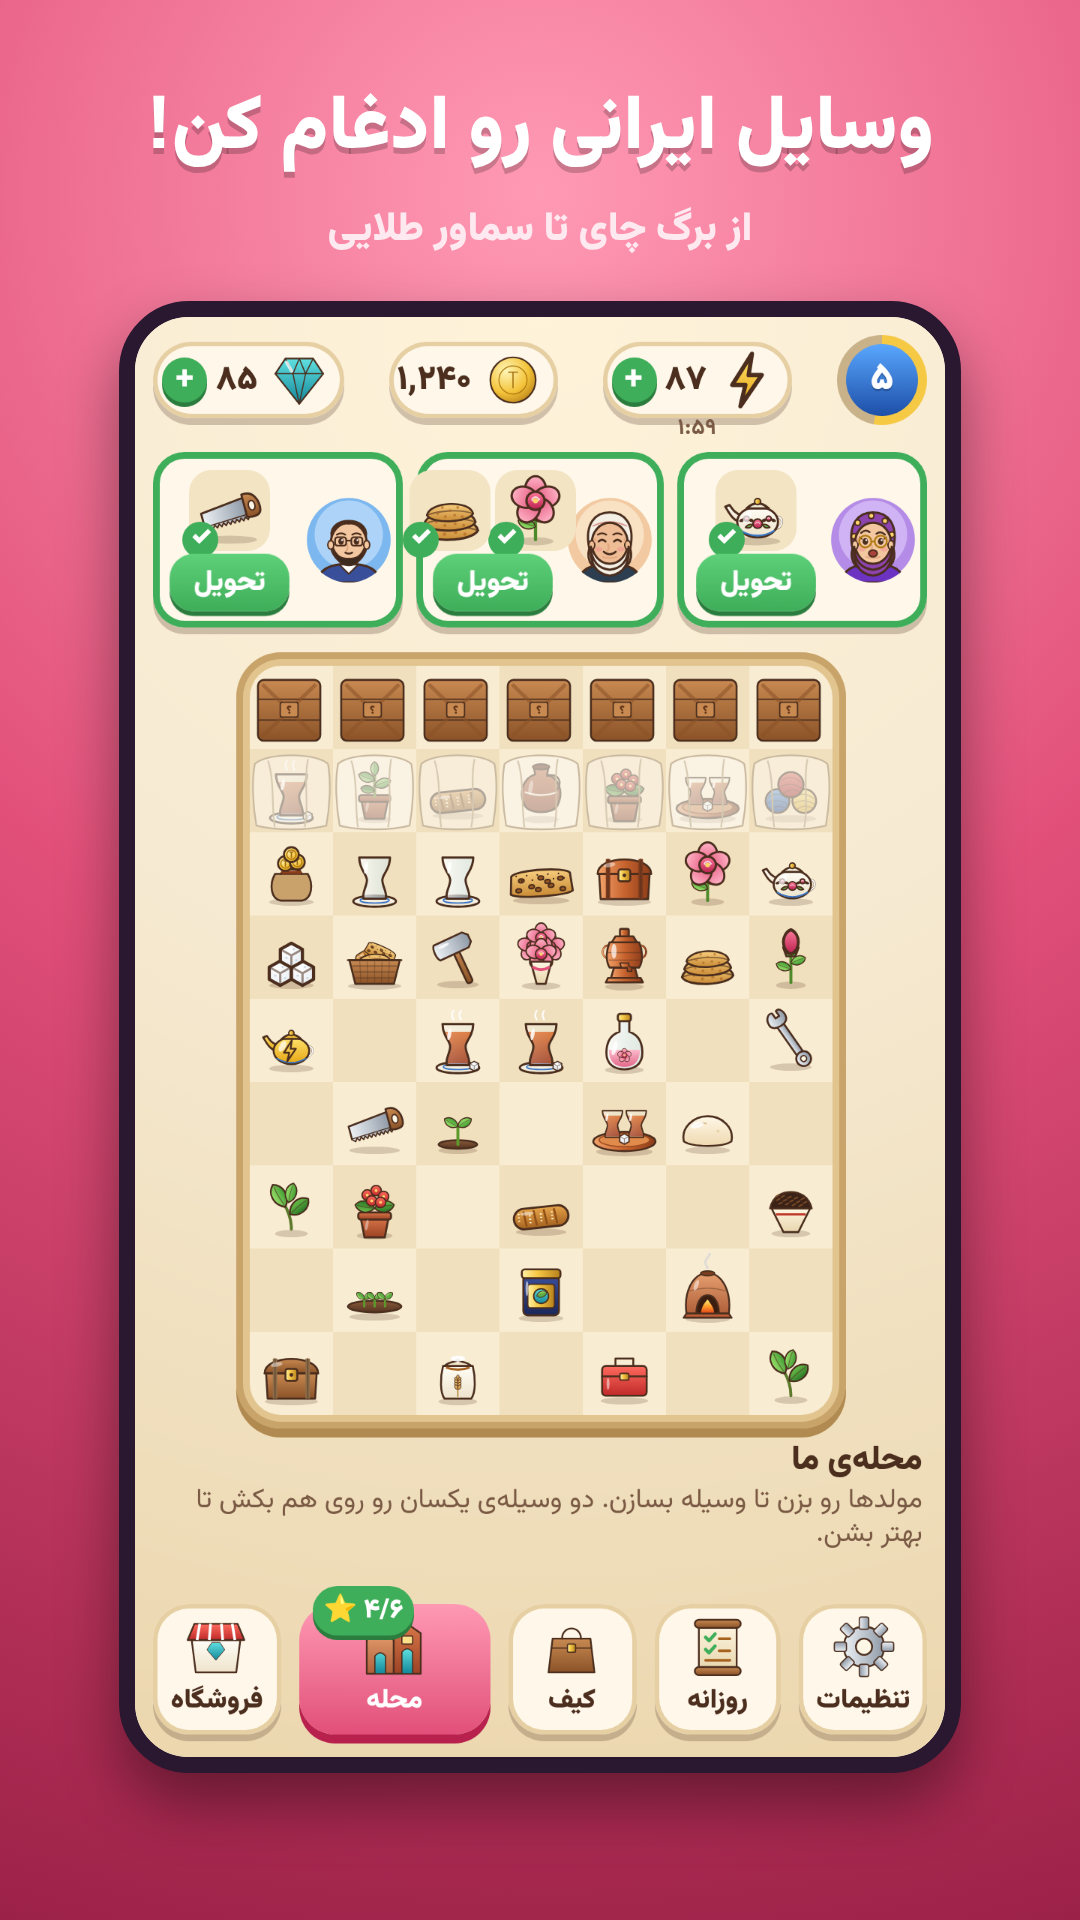
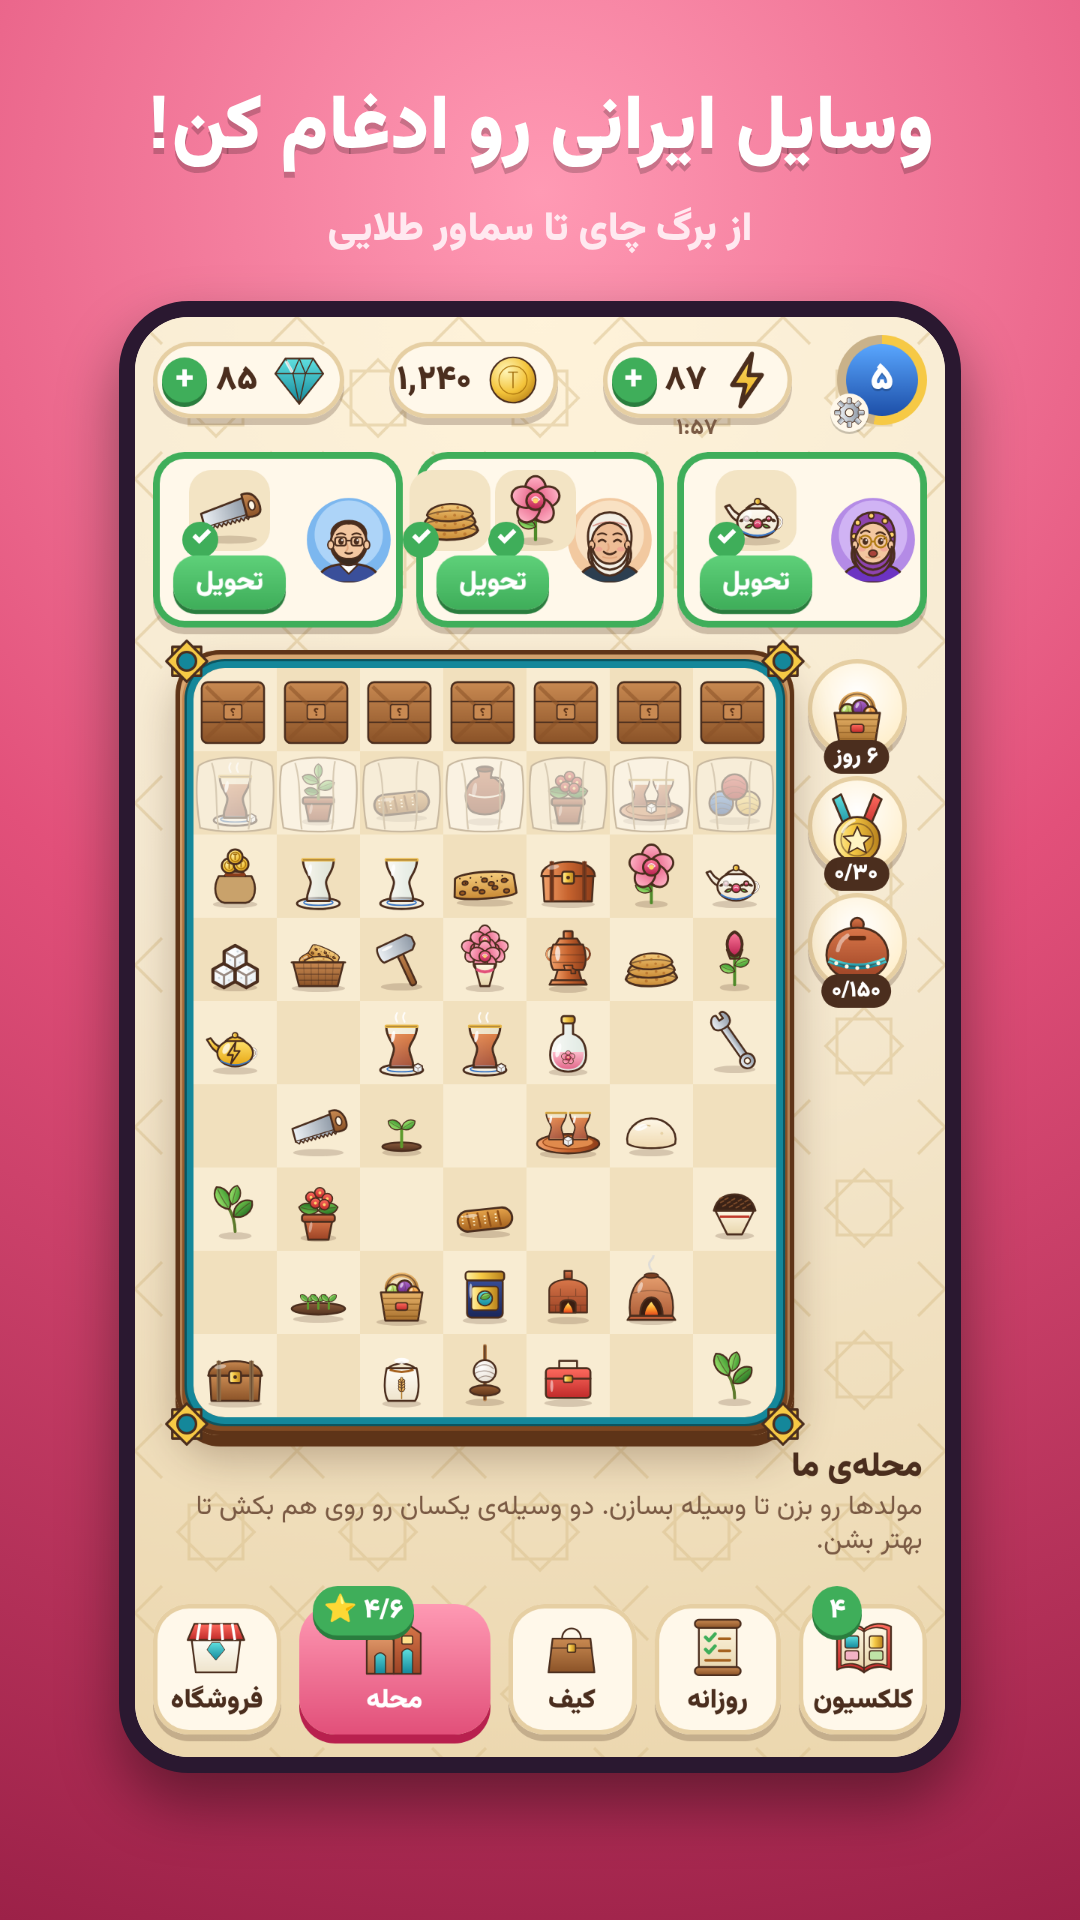
New store screenshots for the AAA features; catch-up toasts wait for the splash
Eight 1080×1920 shots: board, teahouse, story, decoration styles, Yalda event (clock
pinned to 27 Azar), alley race, Season 3 with Uncle Bahman, and the alley map. The
script stages saves with every earned generator and removes its raw captures.

Claude-Session: https://claude.ai/code/session_012idHkvE1RqdQcsBNBZwP5S

diff --git a/scripts/store-shots.ts b/scripts/store-shots.ts
@@ -1,10 +1,10 @@
 // Store screenshots: stages real game states, captures them at phone size and frames each
 // with a caption at 1080×1920. Usage (after `npm run build`): npx tsx scripts/store-shots.ts
 import { createServer } from 'node:http';
-import { existsSync, mkdirSync, readFileSync } from 'node:fs';
+import { existsSync, mkdirSync, readFileSync, rmSync } from 'node:fs';
 import { extname, join, resolve } from 'node:path';
 import { createRequire } from 'node:module';
-import { CELLS, COLS, GameState, fillOrders, newGame } from '../src/game/model';
+import { CELLS, COLS, GameState, ensureGenerators, fillOrders, newGame } from '../src/game/model';
 import { Item } from '../src/game/items';
 import { PLACES } from '../src/story/story';
 const { chromium } = createRequire(import.meta.url)('playwright');
@@ -55,7 +55,9 @@ function midGame(): GameState {
   return s;
 }
 
-interface Shot { name: string; caption: string; sub: string; state: GameState; act?: (page: any) => Promise<void> }
+interface Shot { name: string; caption: string; sub: string; state: GameState; at?: string; act?: (page: any) => Promise<void> }
+const done = (n: number) => PLACES.slice(0, n).flatMap((p) => p.tasks.map((t) => t.id));
+const seenUpTo = (n: number) => [...allSeen, ...PLACES.slice(0, n + 1).map((p) => `${p.id}:intro`), ...PLACES.slice(0, n).map((p) => `${p.id}:outro`), 'ask:rate', 'tut:bubble'];
 const finishedTeahouse = () => {
   const s = midGame();
   s.tasksDone = PLACES[0].tasks.slice(0, 5).map((t) => t.id);
@@ -63,62 +65,99 @@ const finishedTeahouse = () => {
   s.stars = 6;
   return s;
 };
-const weddingState = () => {
+const decorState = () => {
   const s = midGame();
-  const ids = (n: number) => PLACES[n].tasks.map((t) => t.id);
-  s.tasksDone = [0, 1, 2, 3, 4, 5, 6, 7, 8].flatMap(ids).concat(ids(9).slice(0, 4));
-  s.storySeen = [...allSeen, ...PLACES.map((p) => `${p.id}:intro`), ...PLACES.map((p) => `${p.id}:outro`), 'ask:rate'];
-  s.stars = 120;
-  s.level = 11;
+  s.tasksDone = PLACES[0].tasks.slice(0, 3).map((t) => t.id);
+  s.storySeen = [...allSeen, 'event:week'];
+  s.stars = 20;
   return s;
 };
+const raceState = () => {
+  const s = midGame();
+  s.level = 6; s.xp = 150;
+  s.race = { day: today, count: 1, active: { start: Date.now() - 38 * 60e3, orders0: s.stats.orders - 4, finishedAt: null, claimed: false,
+    bots: [{ name: 'مریم از کوچهی یاس', hue: 0, finishMs: 52 * 60e3 }, { name: 'علی از کوچهی بهار', hue: 1, finishMs: 61 * 60e3 }, { name: 'سارا از کوچهی نارنج', hue: 2, finishMs: 95 * 60e3 }, { name: 'حسین از کوچهی اقاقیا', hue: 3, finishMs: 130 * 60e3 }] } };
+  return s;
+};
+const lateState = (placesDone: number, partial: number) => {
+  const s = midGame();
+  s.tasksDone = done(placesDone).concat(PLACES[placesDone]?.tasks.slice(0, partial).map((t) => t.id) ?? []);
+  s.storySeen = seenUpTo(placesDone);
+  s.level = 22; s.xp = 3000; s.stars = 60;
+  return s;
+};
+const skipStory = async (page: any) => {
+  for (let k = 0; k < 12 && await page.$('.dialogue'); k++) { await page.click('.dialogue', { force: true }); await page.waitForTimeout(80); }
+};
+const closeAll = async (page: any) => {
+  for (let k = 0; k < 4 && await page.$('.overlay .close'); k++) { await page.click('.overlay .close', { force: true }); await page.waitForTimeout(150); }
+};
+/** Lets on-load scenes (event intro, daily gift) play out and closes them. */
+const ready = async (page: any) => {
+  await page.waitForTimeout(1300);
+  for (let k = 0; k < 2; k++) { await skipStory(page); await closeAll(page); }
+};
 const shots: Shot[] = [
-  { name: '1-board', caption: 'وسایل ایرانی رو ادغام کن!', sub: 'از برگ چای تا سماور طلایی', state: midGame() },
-  { name: '2-orders', caption: 'سفارش همسایهها رو تحویل بده', sub: 'خاله مهین، اوستا رضا، ننهگلاب…', state: midGame(),
-    act: async (page) => { await page.click('.order', { force: true }); await page.waitForTimeout(250); } },
-  { name: '3-teahouse', caption: 'قهوهخانهی حاجبابا رو زنده کن', sub: 'هر کار، یه گوشه از کوچه رو نجات میده', state: finishedTeahouse(),
+  { name: '1-board', caption: 'وسایل ایرانی رو ادغام کن!', sub: 'از برگ چای تا سماور طلایی', state: midGame(), act: ready },
+  { name: '2-teahouse', caption: 'قهوهخانهی حاجبابا رو زنده کن', sub: 'هر کار، یه گوشه از کوچه رو نجات میده', state: finishedTeahouse(),
+    act: async (page) => { await ready(page); await page.click('#nav-alley', { force: true }); await page.waitForTimeout(500); } },
+  { name: '3-gossip', caption: 'یه سریال ایرانی، قسمت به قسمت', sub: 'خاله مهین همهچی رو اول از همه میدونه!', state: midGame(),
     act: async (page) => {
+      await ready(page);
+      await page.click('#nav-alley', { force: true }); await page.waitForTimeout(400);
+      await page.evaluate(() => (window as any).__showLine?.('mahin'));
+      await page.waitForTimeout(900);
+    } },
+  { name: '4-decor', caption: 'به سلیقهی خودت بچینش', sub: 'سنتی، فیروزهای یا گلبهی؟', state: decorState(),
+    act: async (page) => {
+      await ready(page);
       await page.click('#nav-alley', { force: true }); await page.waitForTimeout(500);
+      await page.click('.place .card .btn', { force: true }); await page.waitForTimeout(1500);
+      await page.click('.decor-opt:nth-child(2)', { force: true }); await page.waitForTimeout(300);
     } },
-  { name: '4-gossip', caption: 'خاله مهین همهچی رو میدونه!', sub: 'یه سریال ایرانی، قسمت به قسمت', state: midGame(),
+  { name: '5-yalda', caption: 'شب یلدا و نوروز تو محله', sub: 'رویدادهای هفتگی، وسیلهها و جامهای مخصوص', state: midGame(), at: '2026-12-18T11:00:00',
+    act: async (page) => { await page.waitForTimeout(1500); await skipStory(page); await page.waitForTimeout(400); } },
+  { name: '6-race', caption: 'مسابقه با کوچههای بغل!', sub: 'اول کی سفارشها رو تحویل میده؟', state: raceState(),
+    act: async (page) => { await ready(page); await page.click('#side-race', { force: true }); await page.waitForTimeout(500); } },
+  { name: '7-season3', caption: 'فصل سوم: نامهای از اون ور دنیا 💌', sub: 'بعد از چهل سال، عمو بهمن برمیگرده…', state: lateState(14, 3),
     act: async (page) => {
-      await page.click('#nav-alley', { force: true }); await page.waitForTimeout(400);
-      await page.evaluate(() => (window as any).__showLine?.());
+      await ready(page);
+      await page.click('#nav-alley', { force: true }); await page.waitForTimeout(500); await skipStory(page);
+      await page.evaluate(() => (window as any).__showLine?.('bahman'));
       await page.waitForTimeout(900);
     } },
-  { name: '5-chain', caption: 'صدها وسیلهی ایرانی', sub: 'سنگک، گل محمدی، گلاب کاشون، فرش کاشان…', state: midGame(),
+  { name: '8-map', caption: '۱۵ قسمت، سه فصل، یه محله', sub: 'آفلاین، بدون تبلیغ اجباری', state: lateState(10, 2),
     act: async (page) => {
-      const cell = await page.$('.cell[data-i="23"]'); await cell.click(); await page.waitForTimeout(200);
-      await page.click('.infobar .chip', { force: true }); await page.waitForTimeout(400);
-    } },
-  { name: '7-wedding', caption: 'فصل دوم: عروسی! 💍', sub: 'از خواستگاری تا جشن عروسی تو کوچه', state: weddingState(),
-    act: async (page) => { await page.click('#nav-alley', { force: true }); await page.waitForTimeout(500); } },
-  { name: '6-farokhi', caption: 'کوچه رو از دست فرخی نجات بده', sub: 'آفلاین، بدون تبلیغ اجباری', state: midGame(),
-    act: async (page) => {
-      await page.click('#nav-alley', { force: true }); await page.waitForTimeout(400);
-      await page.evaluate(() => (window as any).__showLine?.('farokhi'));
-      await page.waitForTimeout(900);
+      await ready(page);
+      await page.click('#nav-alley', { force: true }); await page.waitForTimeout(500); await skipStory(page);
+      await page.click('.place .top button[aria-label="نقشهی محله"]', { force: true }); await page.waitForTimeout(700);
     } },
 ];
 
 const browser = await chromium.launch();
 for (const shot of shots) {
   const page = await browser.newPage({ viewport: { width: 360, height: 640 }, deviceScaleFactor: 3 });
+  // Hand out every generator the staged level has earned, so no catch-up toast shows.
+  ensureGenerators(shot.state);
   await page.addInitScript((json: string) => {
     if (!sessionStorage.getItem('seeded')) { localStorage.setItem('mahalle.save.v1', json); sessionStorage.setItem('seeded', '1'); }
   }, JSON.stringify(shot.state));
   await page.addInitScript(() => {
     // Screenshot helper: shows one story line over the current screen.
-    (window as any).__showLine = (who = 'mahin') => {
-      const text = who === 'farokhi' ? 'همهچی فروشیه خانم. حتی این کوچه.' : 'خبر داغ! زن فرخی دیروز با یه ماشین به این گندگی اومده بود سنگک بخره!';
-      document.dispatchEvent(new CustomEvent('debug-line', { detail: { who, text } }));
+    const LINES: Record<string, string> = {
+      mahin: 'خبر داغ! زن فرخی دیروز با یه ماشین به این گندگی اومده بود سنگک بخره!',
+      farokhi: 'همهچی فروشیه خانم. حتی این کوچه.',
+      bahman: 'چهل سال… درخت توت حیاط هنوز هست. ولی خونهی پدری…',
     };
+    (window as any).__showLine = (who = 'mahin') => document.dispatchEvent(new CustomEvent('debug-line', { detail: { who, text: LINES[who] } }));
   });
+  if (shot.at) await page.clock.setFixedTime(new Date(shot.at));
   await page.goto('http://localhost:4175/');
   await page.waitForTimeout(500);
   await page.click('.splash');
   await page.waitForTimeout(600);
-  while (await page.$('.overlay .btn')) { await page.click('.overlay .btn', { force: true }); await page.waitForTimeout(200); }
+  // Daily gift / level-up windows that open on load.
+  for (let k = 0; k < 3 && await page.$('.overlay .btn:not(.close)') && !await page.$('.overlay .close'); k++) { await page.click('.overlay .btn', { force: true }); await page.waitForTimeout(200); }
   if (shot.act) await shot.act(page);
   await page.waitForTimeout(300);
   await page.screenshot({ path: join(OUT, `raw-${shot.name}.png`) });
@@ -142,6 +181,7 @@ for (const shot of shots) {
 }
 await browser.close();
 server.close();
+for (const shot of shots) rmSync(join(OUT, `raw-${shot.name}.png`), { force: true });
 
 async function fontUrl(): Promise<string> {
   const { readdirSync } = await import('node:fs');

diff --git a/src/ui/app.ts b/src/ui/app.ts
@@ -86,7 +86,7 @@ export class App {
     this.boardEl.addEventListener('pointermove', (e) => this.onMove(e));
     this.boardEl.addEventListener('pointerup', (e) => this.onUp(e));
     this.boardEl.addEventListener('pointercancel', () => this.cancelDrag());
-    for (const it of ensureGenerators(this.s)) this.toast(`«${itemName(it)}» به صفحه اضافه شد!`);
+    this.announcements.push(...ensureGenerators(this.s).map((it) => `«${itemName(it)}» به صفحه اضافه شد!`));
     this.renderAll();
     setInterval(() => this.tick(), 1000);
   }
@@ -941,6 +941,16 @@ export class App {
       if (step('alley')) this.toast('ستاره داری! دکمهی «محله» رو بزن و قهوهخانه رو تعمیر کن.');
       const nav = document.getElementById('nav-alley');
       if (nav) this.showHand(nav.getBoundingClientRect());
+    }
+  }
+
+  /** Messages that wait until the splash screen is gone. */
+  private announcements: string[] = [];
+
+  async flushAnnouncements(): Promise<void> {
+    for (const msg of this.announcements.splice(0)) {
+      this.toast(msg);
+      await wait(2400);
     }
   }
 

diff --git a/src/main.ts b/src/main.ts
@@ -35,6 +35,7 @@ async function boot(): Promise<void> {
 
   await splash();
   setMusic(music !== '0');
+  void app.flushAnnouncements();
 
   // Store connections happen in the background; the game never waits on them.
   connectBilling().then(async (ok) => {

diff --git a/docs/store-listing.md b/docs/store-listing.md
@@ -42,14 +42,15 @@
 • کمحجم و سبک، روی گوشیهای قدیمی هم روان اجرا میشه
 • بدون تبلیغ اجباری
 
-**Screenshot captions (in order):**
-1. وسایل ایرانی رو ادغام کن!
-2. سفارش همسایهها رو تحویل بده
-3. قهوهخانهی حاجبابا رو دوباره زنده کن
-4. خاله مهین همهچی رو میدونه!
-5. از استکان تا سماور طلایی
-6. کوچه رو از دست فرخی نجات بده
-7. فصل دوم: عروسی! 💍
+**Screenshot captions (in order, files in `docs/screenshots/`):**
+1. وسایل ایرانی رو ادغام کن! (`1-board`)
+2. قهوهخانهی حاجبابا رو زنده کن (`2-teahouse`)
+3. یه سریال ایرانی، قسمت به قسمت (`3-gossip`)
+4. به سلیقهی خودت بچینش (`4-decor`)
+5. شب یلدا و نوروز تو محله (`5-yalda`)
+6. مسابقه با کوچههای بغل! (`6-race`)
+7. فصل سوم: نامهای از اون ور دنیا 💌 (`7-season3`)
+8. ۱۵ قسمت، سه فصل، یه محله (`8-map`)
 
 **Content rating:** 3+ (no violence, no gambling, all female characters wear hijab).
 

diff --git a/docs/LAUNCH-fa.md b/docs/LAUNCH-fa.md
@@ -71,7 +71,7 @@ base64 -w0 mahalle-release.jks > mahalle-release.jks.b64
 1. `Mahalle.apk` جدید (امضاشده با کلید خودتان) را از Releases بردارید و در پیشخوان بازار آپلود
    کنید. `Mahalle-myket.apk` را در پنل مایکت آپلود کنید (همان کلید امضا، نسخهی مخصوص مایکت).
 2. متنها: [`docs/store-listing.md`](store-listing.md) (نام، توضیح کوتاه، توضیح کامل).
-3. تصاویر: پوشهی [`docs/screenshots/`](screenshots/) (۷ تصویر ۱۰۸۰×۱۹۲۰ با کپشن).
+3. تصاویر: پوشهی [`docs/screenshots/`](screenshots/) (۸ تصویر ۱۰۸۰×۱۹۲۰ با کپشن).
 4. آیکون: `android/app/src/main/res/mipmap-xxxhdpi/ic_launcher.png` (یا `public/icon.svg`).
 5. ردهی سنی: ۳+. دسته: بازی › تفننی.
 
